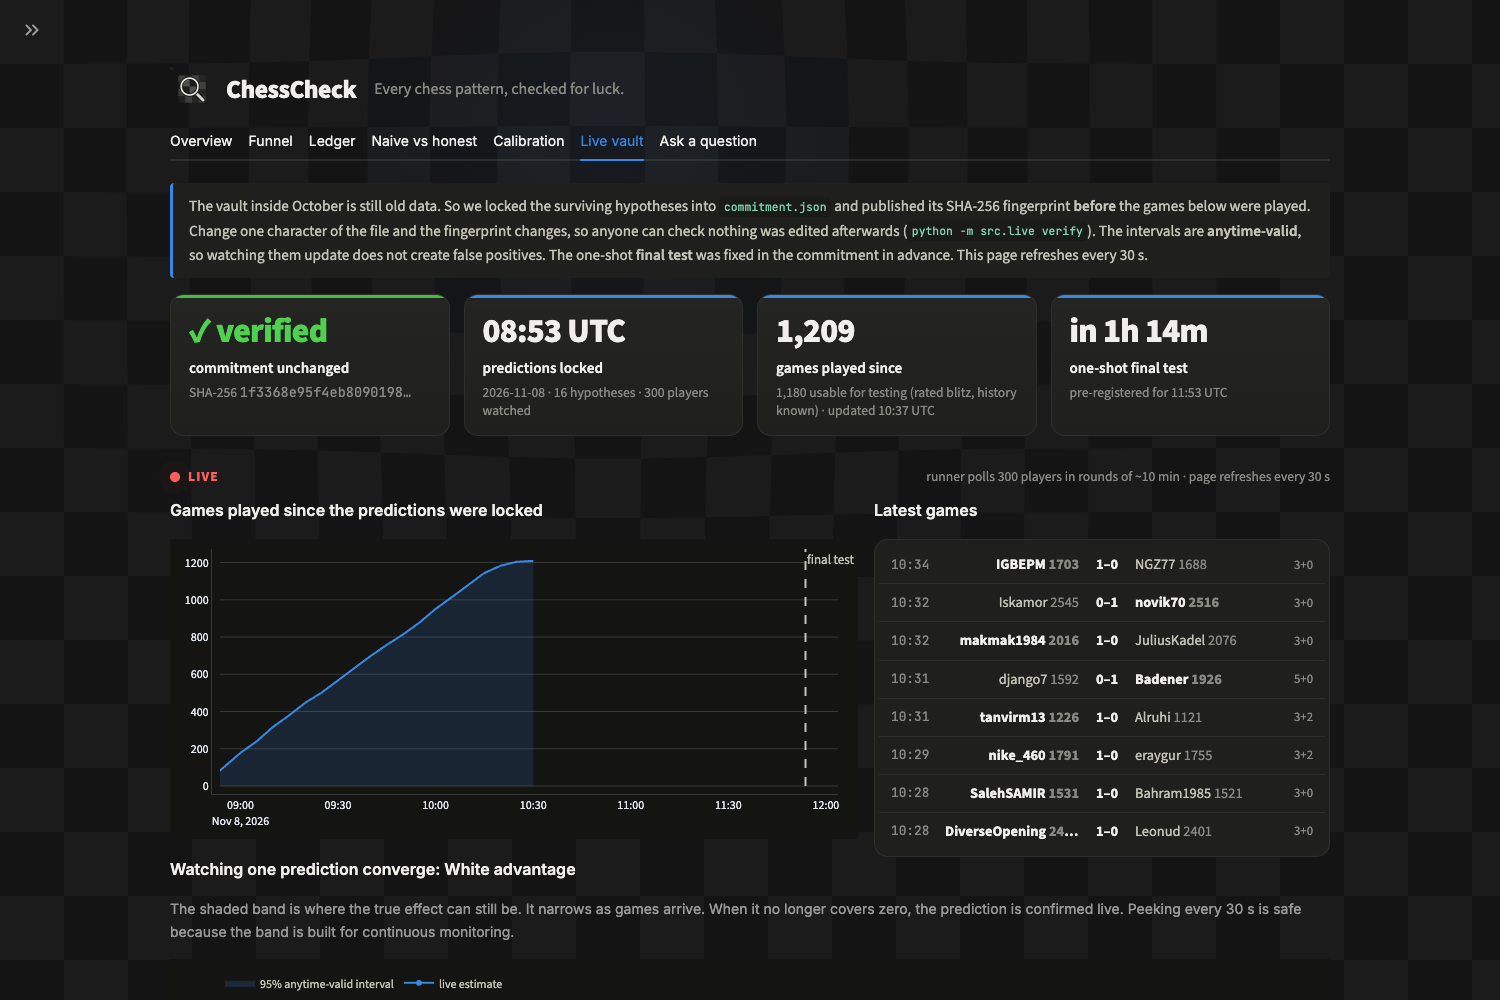
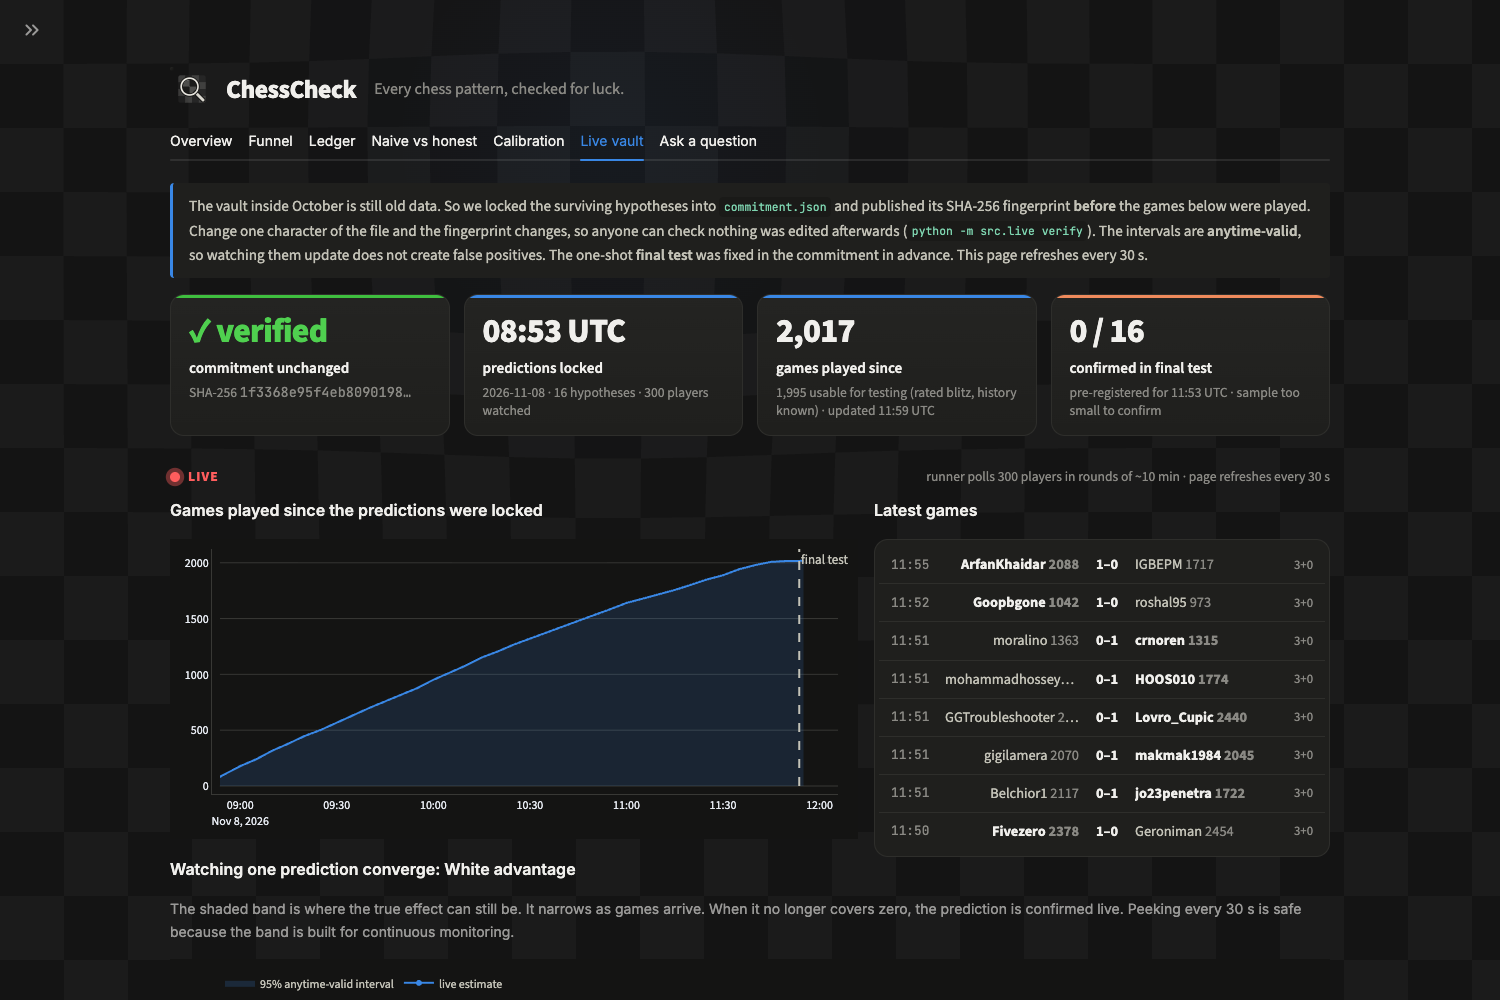
Live vault: final test result (0 of 16 confirmed on 1,995 games), shown honestly in dashboard and docs

diff --git a/src/app.py b/src/app.py
@@ -894,6 +894,19 @@ def trajectory(mtime: float, hid: str) -> pd.DataFrame:
     return pd.DataFrame(out)
 
 
+def final_card(commit, live, mins, t_final):
+    if t_final is None:
+        return kpi("—", "one-shot final test", "")
+    ft = (live or {}).get("final_test") or {}
+    when = f"pre-registered for {commit.get('final_test_at', '')[11:16]} UTC"
+    if ft.get("status") == "done":
+        n_ok = sum(r["verdict"] == "CONFIRMED" for r in ft["results"])
+        return kpi(f"{n_ok} / {len(ft['results'])}", "confirmed in final test", f"{when} · sample too small to confirm"
+                   if n_ok == 0 else when, "good" if n_ok else "orange")
+    return kpi(f"in {mins // 60}h {mins % 60:02d}m" if mins is not None and mins > 0 else "computing…",
+               "one-shot final test", when)
+
+
 @st.fragment(run_every=30)
 def live_tab():
     commit = read_fresh(ROOT / "commitment.json")
@@ -924,8 +937,7 @@ def live_tab():
                  "games played since",
                  (f"{live['n_games']:,} usable for testing (rated blitz, history known) · updated "
                   f"{live['updated_at'][11:16]} UTC") if live else "waiting for the runner"),
-             kpi((f"in {mins // 60}h {mins % 60:02d}m" if mins is not None and mins > 0 else "done") if t_final is not None else "—",
-                 "one-shot final test", f"pre-registered for {commit.get('final_test_at', '')[11:16]} UTC")]
+             final_card(commit, live, mins, t_final)]
     st.markdown(f'<div class="kpis">{"".join(cards)}</div>', unsafe_allow_html=True)
     gfile = RES / "live" / "games.jsonl"
     gm = _mtime(str(gfile))
@@ -991,11 +1003,32 @@ def live_tab():
         st.code(f"{h}\n\n$ python -m src.live verify\nVERIFIED: matches the published hash; commitment unchanged.", language=None)
     ft = (live or {}).get("final_test") or {}
     if ft.get("status") == "done":
-        n_ok = sum(r["verdict"] == "CONFIRMED" for r in ft["results"])
-        st.markdown(f"#### Final test: {n_ok} of {len(ft['results'])} predictions confirmed")
+        res = pd.DataFrame(ft["results"])
+        pred = {h["id"]: h for h in commit["hypotheses"]}
+        res["dir"] = res["id"].map(lambda i: pred[i].get("predicted_direction") or pred[i]["spec"]["direction"])
+        res["same"] = (res["effect"] < 0) == (res["dir"] == "less")
+        res["sealed"] = res["id"].map(lambda i: pred[i]["validate"]["effect"])
+        n_ok = int((res["verdict"] == "CONFIRMED").sum())
+        st.markdown(f"#### Final test: {n_ok} of {len(res)} predictions confirmed")
         st.caption(f"Games started between the commit and {ft['at'][11:16]} UTC ({ft['n_rows']:,} player-games). "
                    "One-sided test in the committed direction, Benjamini–Hochberg q = 0.05 across all committed hypotheses.")
-        st.dataframe(pd.DataFrame(ft["results"]), hide_index=True, width="stretch")
+        widths = (res["ci_high"] - res["ci_low"])
+        st.markdown(
+            f'<div class="claim"><div><b>What this means.</b> {int(res["same"].sum())} of {len(res)} live effects pointed the '
+            f'predicted way, about what a coin would do. The sealed effects are small ({res["sealed"].abs().min():.3f} to '
+            f'{res["sealed"].abs().max():.3f} score points, i.e. {elo(res["sealed"].abs().min())} to {elo(res["sealed"].abs().max())}), '
+            f'but a few hours of games give 95% intervals {widths.min():.2f} to {widths.max():.2f} wide. So this window could not '
+            f'confirm them, and ChessCheck says <b>not confirmed</b> rather than telling a story. The test was fixed in advance, so '
+            f'we report it as it is. A longer window would be a new, separate test.</div></div>', unsafe_allow_html=True)
+        st.dataframe(pd.DataFrame({
+            "ID": res["id"], "Prediction": res["id"].map(FINDING_TITLES).fillna(res["id"].map(lambda i: pred[i]["spec"]["statement"])),
+            "Sealed effect": res["sealed"].map(elo), "Live effect": res["effect"].map(elo),
+            "Live 95% CI": [f"{elo(l)} to {elo(h)}" for l, h in zip(res["ci_low"], res["ci_high"])],
+            "Predicted way?": res["same"].map({True: "yes", False: "no"}),
+            "p": res["p"].round(3), "Games": res["n_treated"],
+            "Verdict": res["verdict"].map({"CONFIRMED": "🟢 CONFIRMED", "NOT CONFIRMED": "⚪ NOT CONFIRMED"})}),
+            hide_index=True, width="stretch", height=40 + 35 * len(res),
+            column_config={"Prediction": st.column_config.TextColumn(width="large")})
     if not live:
         st.info("No post-commit games yet. Start `python -m src.live run`.")
         return

diff --git a/NOTES.md b/NOTES.md
@@ -123,6 +123,7 @@
 - **Known limitation of polling mode:** games played between polls are missed, so `prev_result` etc. can refer to the last *observed* game. Token mode has complete histories.
 - **Pre-registered one-shot final test (added 2026-11-08, before the real commit).** The commitment fixes `final_test_at` (3 h after commit). At that time we use only games started in [commit, final_test_at), take a one-sided p-value in the validated direction for each committed hypothesis, and apply BH at q = 0.05 across the committed set. Pass = BH-significant and |effect| ≥ min_effect. *Why:* the anytime-valid CS pays for unlimited peeking with wide intervals. A single test at a time fixed in advance has much more power and is still valid, because the time was chosen before any live data existed. The CS stays for watching live.
[1 lines of base64/hex data omitted]
+- **Final test result (2026-11-08 11:59 UTC):** 1,995 post-commit games (2,009 rows). 0 of 16 confirmed. 9 of 16 effects in the predicted direction. The live 95% CIs are 0.08 to 0.44 wide, against validated effects of 0.006 to 0.039, so the test was badly underpowered. For example, White advantage (H0006): validated +0.034, live +0.010, CI [−0.032, +0.051]. *Why we report it as is:* the test was fixed in advance, and changing the window or the test after seeing the result would be exactly the p-hacking the project is about. The sealed file can be re-checked honestly on a longer window, reported as a separate, later test.
 
 ## Reporting
 - **REAL hypotheses are merged into distinct findings** (`src/findings.py`, on explore only). Same-sign pairs merge when their treated sets nest: overlap coefficient, rescaled so that chance overlap scores 0. Opposite-sign pairs merge only when one's treated rows are essentially the other's control rows (Jaccard ≥ 0.5, e.g. "White +" / "Black −"). Union-find at 0.5. Result: **14 REAL → 7 distinct findings**. *Why:* counting a mirror or nested variant as a new discovery oversells the result. A raw overlap coefficient merged everything, since any small group is ~50% White by chance, hence the rescaling.

diff --git a/DEMO.md b/DEMO.md
@@ -36,7 +36,7 @@
 
 - `python -m src.live verify` gives **VERIFIED**.
 - Show games played **since the commit**, with running estimates and **anytime-valid confidence sequences**, so we can peek live without inflating false positives.
-- Show the **pre-registered final test**: one shot, at a time fixed in the commitment, with BH across the committed set.
+- Show the **pre-registered final test**: one shot, at a time fixed in the commitment, with BH across the committed set. **Result: 0 of 16 confirmed** on 1,995 games (9 of 16 in the predicted direction, which is chance level). Say it straight: the sample was about 100× too small for effects this size, and the system reported NOT CONFIRMED rather than spinning a story.
 - Optional finale: click the example **"Do players perform worse after midnight their local time?"** in **Ask a question**. It looked real on explore (p = 2e-9) and then died at validation, so it's LUCKY. In UTC it was a confirmed null. Then let a judge type their own question (test mode on, so it can't touch the committed set). A "no" comes back as either *not enough evidence* or *NO EFFECT (confirmed)*, meaning anything that would matter is ruled out. Claude converts it, it's logged and counted in the correction, and it gets a verdict in ~25 s.
 
 ---
@@ -51,4 +51,5 @@
 | Naive on null | auto p-hacker 131 → 0 REAL; Claude 6 → 0 REAL |
 | Main ledger | 57 hypotheses → 14 REAL (**7 distinct findings**), 19 LUCKY, 23 REJECTED, 1 UNDERPOWERED |
 | Live commitment | 2026-11-08 08:53 UTC · 16 hypotheses · SHA-256 `1f3368e9…` · final test 11:53 UTC |
+| Live final test | 1,995 post-commit games · **0 / 16 confirmed** · 9 / 16 in predicted direction · CI widths 0.08–0.44 vs sealed effects 0.006–0.039 |
 | Bias caught | plain within-player test: "tilt" +0.047 at p = 10⁻²¹³ on pure noise → fixed |

diff --git a/DEVPOST.md b/DEVPOST.md
@@ -18,7 +18,7 @@ Then it **bets on the future**: surviving hypotheses are written to a file whose
 - **100% power** at a planted effect of 0.01 (≈ 7 Elo), on two different hypotheses.
 - **Naive vs honest:** with the safeguards off, Claude and a p-hacker made **137 "discoveries" in pure noise**, and Claude wrote confident explanations for them. ChessCheck kept **0**.
 - **58 hypotheses → 14 REAL → 7 distinct findings** (mirror claims like "White +" / "Black −" are merged). Examples: White advantage ≈ +24 Elo; losing and re-queueing within minutes ≈ −5 to −8 Elo. The hot hand looked hugely significant, then died in the vault.
-- **16 predictions sealed** and checked live against new Lichess games.
+- **16 predictions sealed** and checked live against 1,995 new Lichess games. The pre-registered final test confirmed **0 of 16** (9 of 16 pointed the predicted way). That is the honest answer: 3 hours of Sunday-morning games give intervals far wider than effects of about 1 percentage point. ChessCheck said *not confirmed* instead of telling a story.
 
 ## How we built it
 - **Data:** streamed the Lichess open database (`.pgn.zst`) and parsed headers only with a byte-regex, giving 11.2M rated blitz games and 22.2M player-game rows. Bots and players with more than 200 games a day are excluded.
